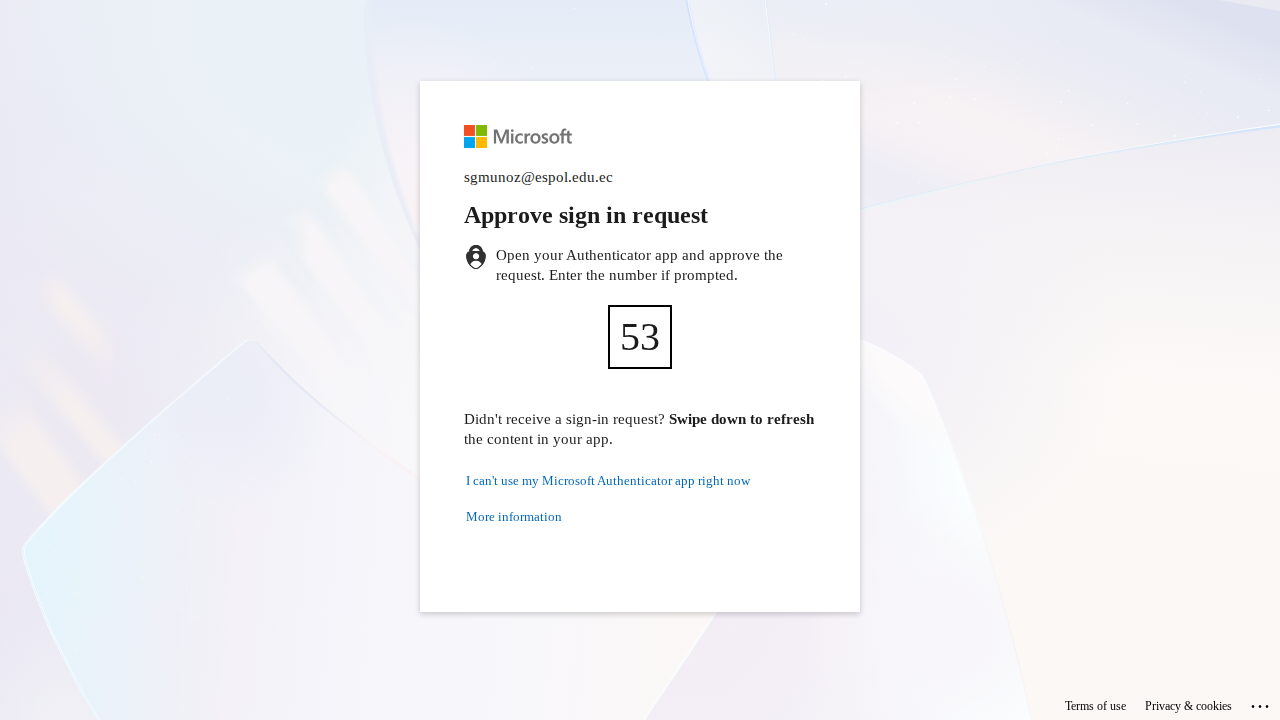
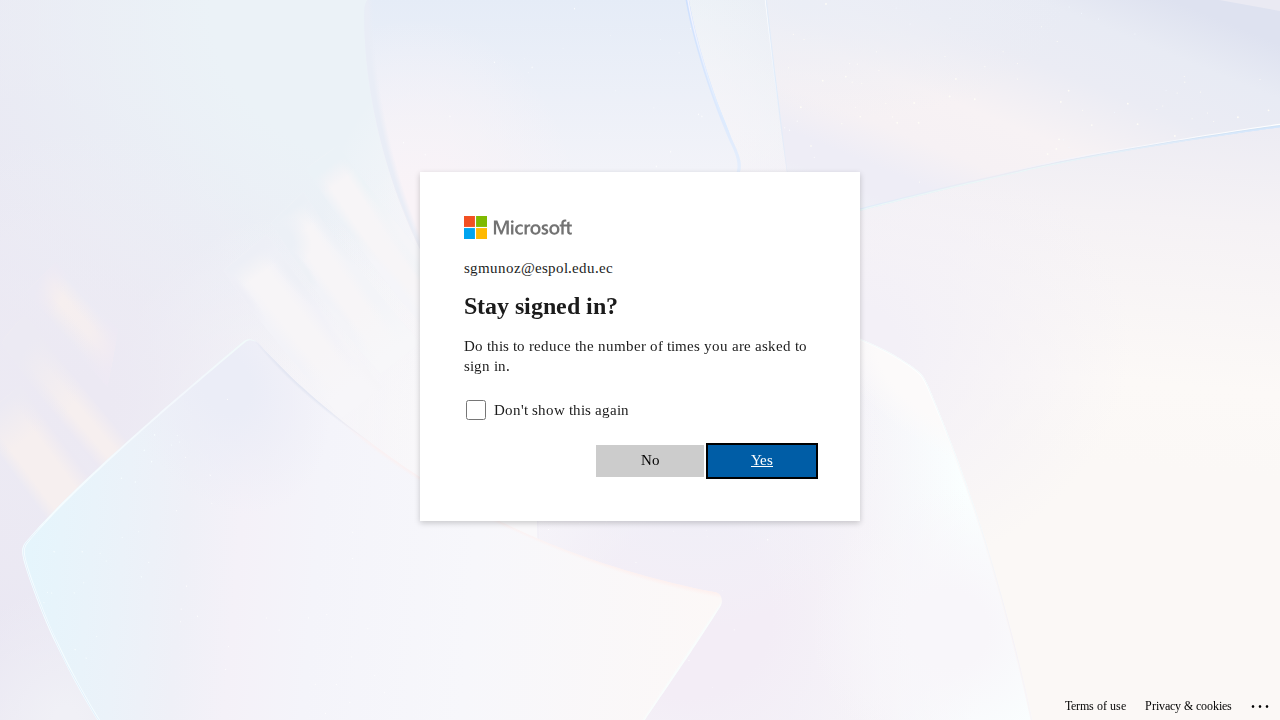
feat: almacenamiento y creacion de sesiones

diff --git a/src/auth/login.js b/src/auth/login.js
@@ -1,53 +1,45 @@
-import { chromium } from "playwright";
 import terminalImage from 'terminal-image';
-import readline from 'node:readline';
 
-const rl = readline.createInterface({
-    input: process.stdin,
-    output: process.stdout,
-});
-
-export async function login() {
+export async function login(page) {
 
     let numeroAutenthicator;
-
-    const browser = await chromium.launch({ headless: true });
-    const page = await browser.newPage();
 
     await page.goto('https://aulavirtual.espol.edu.ec/login/openid_connect');
     try {
         await page.waitForURL('https://sts.espol.edu.ec/adfs/ls/**');
 
-        await page.getByPlaceholder('usuario@espol.edu.ec').fill(process.env.EMAIL);
-
         //password cambia dependiendo de el idioma
+        await page.getByPlaceholder('usuario@espol.edu.ec').fill(process.env.EMAIL);
         await page.locator('#passwordInput').fill(process.env.PASSWORD);
         await page.locator('#submitButton').click();
 
         await page.waitForURL('https://login.microsoftonline.com/login.srf');
-        
+
         // confiar en espol.edu.ec
         await page.locator('#idSIButton9').click();
 
         await page.waitForURL('https://login.microsoftonline.com/appverify');
         // esperamos esa animacion
         await page.waitForTimeout(2000);
-        const buffer = await page.locator('.display-sign-container').screenshot();
+
         // muestra el numero de auth en consola
+        const buffer = await page.locator('.display-sign-container').screenshot();
         console.log(await terminalImage.buffer(buffer));
 
-        await page.getByRole('input', { value: 'Yes' }).click();
+        // guardar sesion -> si
+        await page.locator('#idSIButton9').click();
         console.log(page.url());
+
+       
+        await page.context().storageState({ path:'cookies.json' })
+        console.log('Cookies saved!');
+
+        return page;
 
     } catch (error) {
         const buffer = await page.screenshot({ path: 'error.png', fullPage: true });
         console.log(await terminalImage.buffer(buffer));
         throw error;
     }
-
-
-
-
-
 
 }

diff --git a/src/index.js b/src/index.js
@@ -1,6 +1,60 @@
-import { login } from "./auth/login.js";
 import dotenv from 'dotenv';
+import { access } from "fs/promises";
+import * as fs from 'node:fs/promises';
+import path from "path";
+import { chromium } from "playwright";
+import terminalImage from 'terminal-image';
+import { fileURLToPath } from "url";
+import { login } from "./auth/login.js";
+import { errors } from "playwright";
+
+
+export const PROJECT_ROOT = path.resolve(
+    path.dirname(fileURLToPath(import.meta.url)),
+    ".."
+)
+const cookiesPath = path.join(PROJECT_ROOT, "cookies.json");
+const hasCookies = await fileExists(cookiesPath);
 
 dotenv.config();
 
-await login();
+const browser = await chromium.launch({ headless: true });
+
+const context = await createContext();
+
+const page = await context.newPage();
+
+await page.goto('https://aulavirtual.espol.edu.ec/');
+
+try {
+    await page.waitForSelector(".bienvenidos", { timeout: 5000 })
+    hasCookies ? console.log("► Sesion expirada, iniciando sesion") : console.log("► Iniciando sesion");
+    await login(page);
+} catch (error) {
+    if (error instanceof errors.TimeoutError) {
+        console.log("► Cookies validas");
+    } else {
+        console.log(error);
+        throw error;
+    }
+}
+
+
+async function createContext() {
+    if (hasCookies) {
+        console.log("► Cookies encontradas");
+        return browser.newContext({ storageState: cookiesPath });
+    }
+    console.log("► No hay cookies");
+    return browser.newContext();
+}
+
+async function fileExists(path) {
+    try {
+        await access(path, fs.F_OK);
+        return true;
+    } catch {
+        return false;
+    }
+}
+
